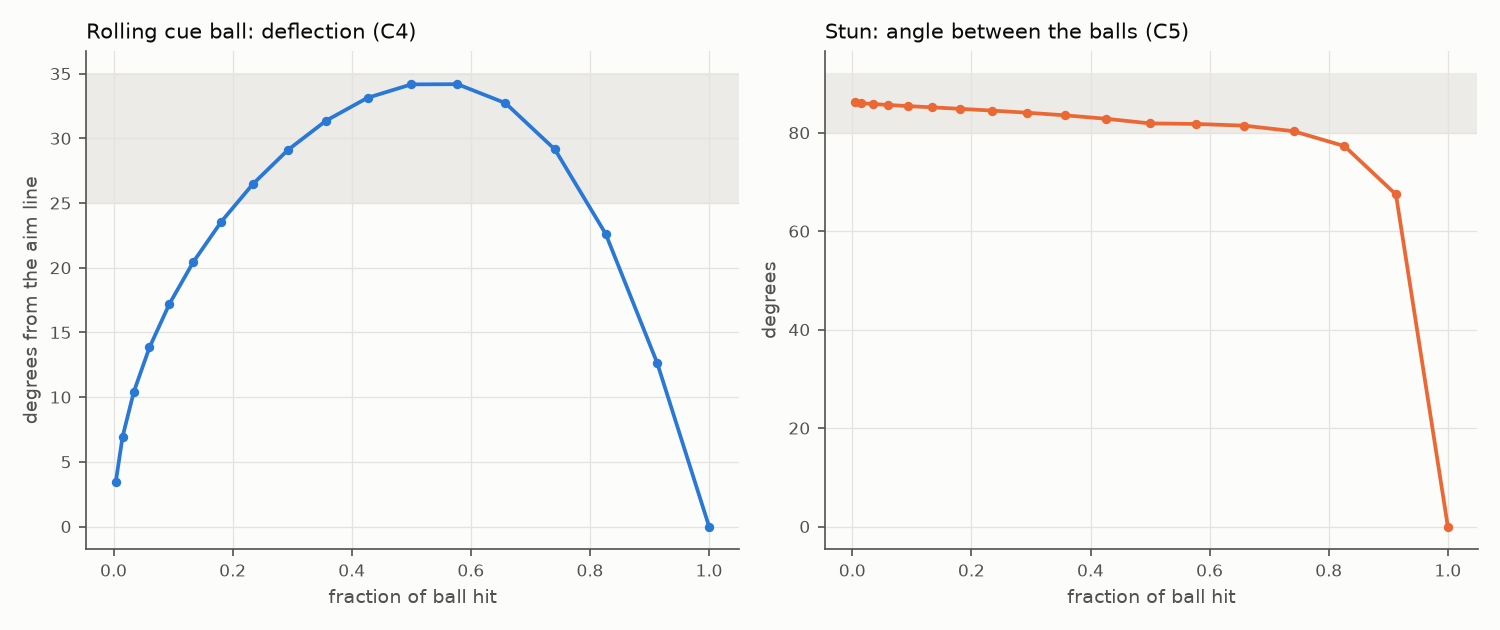
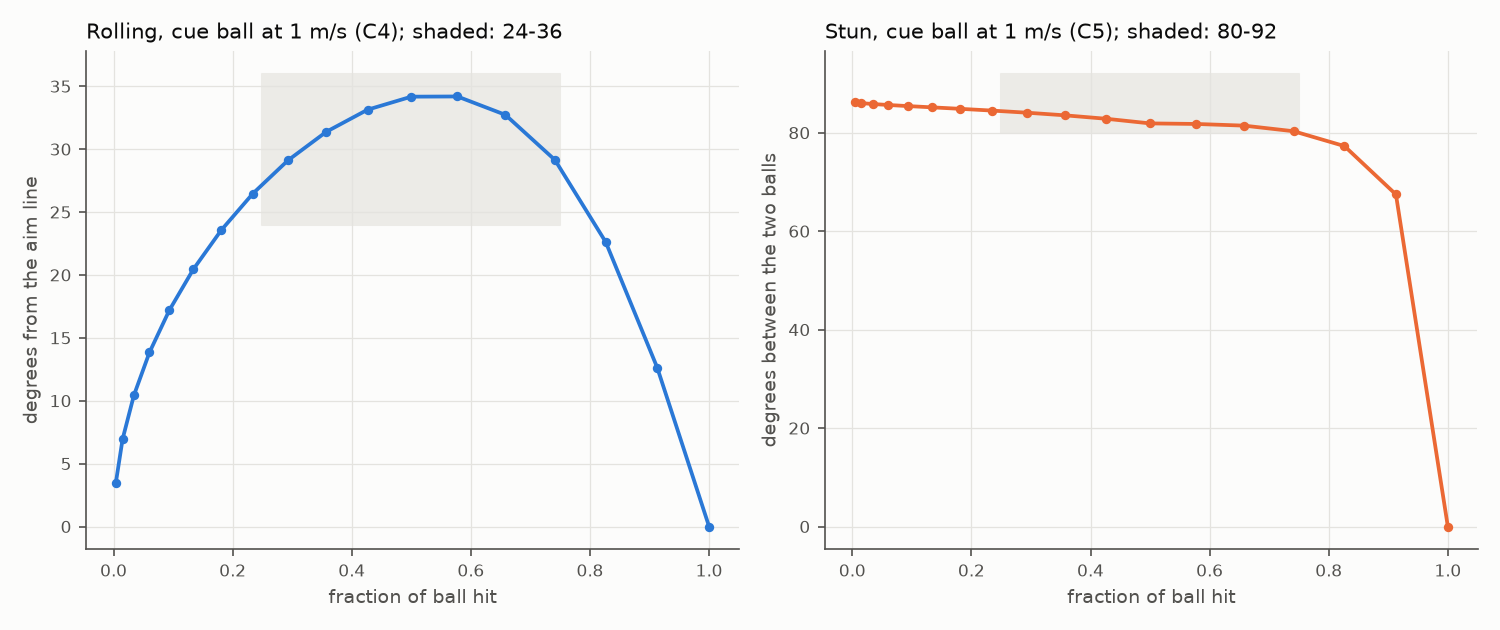
Calibration report regenerated at 909c010 (params ab06a56d); targets.md C6 finding resolved; stale calibration comments

diff --git a/core/tests/calibration/test_c12_c14_energy_determinism_fuzz.cpp b/core/tests/calibration/test_c12_c14_energy_determinism_fuzz.cpp
@@ -7,8 +7,8 @@ using namespace calib;
 
 namespace {
 
-// C12 and C13 hold on any closed table; until the cushions agent's outline lands (the contracts
-// placeholder has none) they run on the bare WPBSA box.
+// C12 and C13 hold on any closed table, so when table_shape.json can't be used they run on the
+// bare WPBSA box.
 const TableShape& fuzz_table() {
     static const TableShape box = box_table();
     return loaded_table().ok ? loaded_table().t : box;
@@ -238,7 +238,7 @@ TEST_CASE("C12-C14 shot generator: every start is a legal table state") {
 
 TEST_CASE("C12 energy never rises across events, and every shot ends within the time cap (2,000 shots)") {
     const TableShape& t = fuzz_table();
-    if (!loaded_table().ok) WARN_MESSAGE(false, "table_shape.json not usable yet, C12 runs on the WPBSA box:\n" << join(loaded_table().problems));
+    if (!loaded_table().ok) WARN_MESSAGE(false, "table_shape.json not usable, C12 runs on the WPBSA box:\n" << join(loaded_table().problems));
     Rng rng(0x5eed0c12);
     Failures f;
     for (int i = 0; i < 2000; ++i) {

diff --git a/core/tests/calibration/calib.hpp b/core/tests/calibration/calib.hpp
@@ -96,8 +96,7 @@ inline const LoadedTable& loaded_table() {
         if (out.t.lines.size() < 6 || out.t.pockets.size() != 6) {
             out.ok = false;
             out.problems.push_back("outline has " + std::to_string(out.t.lines.size()) + " cushion lines and " +
-                                   std::to_string(out.t.pockets.size()) +
-                                   " pockets (the contracts placeholder has none; the cushions agent fills it)");
+                                   std::to_string(out.t.pockets.size()) + " pockets");
         }
         return out;
     }();

diff --git a/docs/calibration/report/report.md b/docs/calibration/report/report.md
@@ -1,160 +1,136 @@
 # Calibration report
 
-Physics parameters `1b74109f2b0ff078`, table outline `cf92efd6db3fff39`, core 0.1.0, release build, from `calibration-data`.
+Physics parameters `ab06a56d6608ce71`, table outline `cf92efd6db3fff39`, core 0.1.0, release build, from `calibration`.
 
 ## In plain words
 
-Pace below is the cue ball's speed as it leaves the tip. A gentle push is about 1 m/s, a medium pace
-about 2 m/s, a firm shot 3-4 m/s, a power shot 5 m/s and up.
+Speeds are the cue ball's speed as it leaves the tip unless a figure says cue speed (how fast the cue is moving). A centre-ball hit sends the cue ball off 1.39 times as fast as the cue; with the tip 0.5 off centre (above, below or to one side) it leaves only 67% as fast as that for the same cue speed. Tip positions are fractions of the ball's radius from its centre: 0.5 is half-way to the edge, just inside the miscue limit of 0.55. Distances between two balls are from centre to centre, and the table is 3.57 m long.
 
-- **Stun.** A full-ball stun leaves the cue ball almost dead: it keeps 3% of its speed and creeps on
-  about 1 cm from a 2 m/s contact. From 50 cm, striking a third of the way down at 2.4 m/s stops
-  the cue ball within 4 cm; from further away you need more screw or more pace, because the cloth
-  rubs the backspin off on the way.
-- **Screw needs pace.** The cloth takes spin off quickly (it grips like the measured snooker cloth
-  its value comes from). Maximum screw from 50 cm comes back about 12 cm at 1.9 m/s, 1.8 m at
-  2.8 m/s and 4.6 m at 3.7 m/s. From 1 m, 2.8 m/s screws back 40 cm and 3.7 m/s 2.8 m; at 1.9 m/s
-  the screw is gone by the time it arrives and the cue ball runs on 14 cm. A centre-ball hit from
-  close range is a stun-run-through (25 cm from 50 cm at 2.8 m/s).
-- **Follow.** A rolling cue ball follows through at about 2/7 of its speed: from 1 m at 1.9-2.8 m/s,
-  hitting above centre follows 1.4-1.8 m; at 3.5 m/s about 4 m.
-- **Cut angles.** Rolling cue balls come off a quarter- to three-quarter-ball cut 29-34 degrees from
-  the aim line (the 30-degree rule). Stunned, the two balls part at 80-84 degrees, a little under
-  90 because snooker balls are not perfectly elastic.
-- **Throw.** On a half-ball cut the friction between the balls drags the object ball off the line
-  by 4.9 degrees at 0.45 m/s, 4.2 at 1.3 m/s and 3.4 at 3.1 m/s: a slow cut pot over 1 m lands
-  about 8 cm thinner than the contact line says, a firm one about 6 cm. Follow or screw roughly
-  halves it.
-- **Side and squirt.** Maximum side (just short of a miscue) pushes the cue ball 2.0 degrees off
-  the aim line, about 3.5 cm over 1 m, away from the side used. Raising the butt with side swerves
-  the ball back towards the side once it grips: with the cue raised 30 degrees and 40% side it
-  turns about 13 degrees.
-- **Cushions.** A rolling ball straight into a cushion comes back with 91% of its speed at normal
-  pace; firm hits lose more, 77% at 3.5 m/s (80% was measured on a snooker table). Running
-  side opens the angle off the cushion (into the cushion at 45 degrees: 47 degrees out with running
-  side, 37 with none) and check side closes it (36).
-- **Cloth speed.** A lag (baulk line to the top cushion and back to the baulk cushion) needs the
-  cue ball to leave at 2.1 m/s, and its last length takes 8.4 seconds. A ball rolling at 1 m/s runs
-  about 5 m before it stops.
-- **Still starting guesses, for you to judge by feel in M2:** how lively the pocket jaws are
-  (firm balls rattling, slow ones dropping), the nap drift on slow balls with and against the nap,
-  what a miscue does, how much a very hard ball dies on a cushion, and the cloth's overall pace
-  (the one snooker measurement found plays slower than this; tournament tables are heated and
-  faster, so this sits between the two).
+- **Pace.** A centre-ball cue ball left to run: at 1 m/s it runs 2.7 m (76% of the table's length); at 2 m/s it would run 10.9 m on an endless table (3.0 table lengths); at 3 m/s it would run 24.5 m on an endless table (6.9 table lengths).
+- **Stun.** A cue ball arriving full-ball at 2 m/s with no spin stops almost dead: it keeps 3.0% of its speed and creeps on 1.0 cm. Striking a third of the way from centre to the bottom of the cue ball (tip -0.33), it stuns from 50 cm when it leaves at 1.83 m/s (it then creeps on 0.4 cm) and from 1 m at 2.66 m/s: from further away you hit harder, because the cloth rubs the backspin off on the way. From 50 cm, hit a tenth harder (2.01 m/s) and it comes back 0.5 cm; a tenth softer (1.65 m/s) and it runs on 5.3 cm. Centre ball from 50 cm at 3 m/s is a stun-run-through: the cue ball arrives still sliding and runs on 23 cm.
+- **Screw needs pace.** The cloth takes backspin off quickly. Striking 0.5 below centre, from 50 cm at 2 m/s it comes back 30 cm, at 3 m/s it comes back 2.4 m and at 4 m/s it would come back 5.6 m on an endless table; from 1 m at 2 m/s it runs on 17 cm, at 3 m/s it comes back 83 cm and at 4 m/s it would come back 3.7 m on an endless table. At 2 m/s from 1 m the backspin is gone before the cue ball arrives, so it runs on.
+- **Follow.** Striking 0.5 above centre, from 1 m at 2 m/s it follows through 1.7 m and at 3 m/s it would follow through 3.9 m on an endless table. A cue ball already rolling when it hits a ball full keeps 27% of its speed, close to the textbook 2/7 (29%).
+- **Cut angles.** A rolling cue ball arriving at 1 m/s and cut between a quarter and three-quarter ball comes off 29-34 degrees from the aim line (the 30-degree rule). Stunned, the two balls part at 80-84 degrees, a little under 90 because the balls are not perfectly elastic and the friction between them drags the object ball along.
+- **Throw.** On a half-ball cut, friction between the balls drags the object ball a little the way the cue ball is going, so it goes fuller than the line through the two centres: 4.9 degrees with a stunned cue ball arriving at 0.45 m/s, 4.2 at 1.34 m/s and 3.4 at 3.13 m/s. Over 1 m that is 8.5 cm on the slow cut and 5.9 cm on the firm one, so aim that much thinner. A rolling cue ball throws less: 1.7 degrees at 1.34 m/s.
+- **Side and squirt.** Side pushes the cue ball off the aim line, away from the side used: with the most side before a miscue (tip 0.55 off centre) it leaves 2.0 degrees off, 3.5 cm over 1 m.
+- **Swerve.** With the cue raised and side, the cue ball first squirts away from the side, then curves back towards it from the moment it is struck while it slides, bending most just before it grips the cloth; once it rolls it runs straight. Raised 30 degrees with the tip 0.4 right of centre, at a cue speed of 1.5 m/s, it squirts 1.4 degrees left, turns 12.9 degrees right over the first 26 cm and then holds its line: 0.1 degrees more over the next 2.9 m, the nap's drift on a slowing ball.
+- **Cushions.** A rolling ball arriving straight into a cushion at 1 m/s comes off with 91% of its speed; firm hits lose more, 70% at 4 m/s. (The one set of measurements on a snooker table, by Mathavan and colleagues, averaged 82% below 1.5 m/s, where their own cushion model, which the game uses, gives 91%.) Rolling into a side cushion at 45 degrees with no side, the ball leaves at 37.3 degrees just after the impact, then bends out to 50.1 as it grips the cloth again: that is the line you see. Running side widens both (46.6 and 58.8 degrees, with as much side as a tip 0.4 off centre gives) and check side narrows them (35.7 and 49.5).
+- **Cloth speed.** A lag (from the baulk line up to the top cushion and back down to the baulk cushion) needs the cue ball to leave at 2.14 m/s, a cue speed of 1.54 m/s; coming back down from the top cushion to the baulk cushion takes 8.4 seconds.
+- **Still starting guesses, for you to judge by feel in M2:** how lively the pocket jaws are (firm balls rattling, slow ones dropping), the nap drift on slow balls with and against the nap, what a miscue does, how much a very hard ball dies on a cushion, and the cloth's overall pace (the one snooker measurement found a slower cloth; tournament tables are heated and faster, so this sits between the two).
 
 ## Results against the targets
 
-Every target C1-C11 passes in the calibration suite (`ofs_calibration_tests`) with these values.
+What this report measured itself, from `ofs_sim_cli calibrate` and its own shots. The calibration suite (`ofs_calibration_tests`, run by the gate) checks the same targets with the exact tolerances in `docs/calibration/targets.md`.
 
-| # | What | Measured | Target |
-| --- | --- | --- | --- |
-| C1 | Centre-ball, no spin: slides then rolls | at 2 m/s rolls after 0.47 m at 1.43 m/s, matching the formula to 1e-6 | 12 v^2 / (49 mu_s g), 5/7 v (TP 4.1) |
-| C2 | Full-ball stun | cue ball keeps 3.0% of its speed ((1-e)/2) | stops dead apart from e's small forward motion |
-| C3 | Full-ball, rolling | follows at (5/7)(1-e)/2 + 2/7 = 0.307 of its speed, less a little topspin friction | about 2/7 of its speed |
-| C4 | Rolling cut, 1/4 to 3/4 ball | 29.1-34.2 deg (also from the named positions, struck from 1 m) | 30-degree rule, 25.6-32.0 deg +- throw band, inside 24-36 |
-| C5 | Stun cut | 80.3-84.1 deg separation; leaves the tangent line by e's 3.0 deg at half-ball | 90-degree rule with e = 0.94 |
-| C6 | Half-ball stun throw at 1 / 3 / 7 mph | 4.86 / 4.16 / 3.39 deg | Alciatore 4.5 / 4.1 / 3.45, Jewett 6.0 / 4.1 / 3.45 (+- 0.75); slow above fast |
-| C7 | Cushion rebound, rolling, 0.5-4 m/s, 0-80 deg | matches the fine-step Mathavan solution (108 cases) | 1 deg, 2% |
-| C8 | Running and check side | angles ordered check < plain < running at every speed and incidence | Mathavan Fig. 8 |
-| C9 | Squirt at maximum side | 2.01 deg | 1-3 deg |
-| C10 | Swerve with an elevated cue | curves towards the side only while sliding, runs straight once rolling | TP A.4 parabola to 1e-9 m |
-| C11 | Lag | cue ball 2.14 m/s; last length 8.4 s, effective slope 0.0101 | 1.55-2.32 m/s; slope 0.0055-0.0105 |
+| # | What | Measured | Target | Verdict |
+| --- | --- | --- | --- | --- |
+| C1 | Centre ball, no spin: slides, then rolls | at 2 m/s rolls after 0.4710 m at 1.4286 m/s | 12 v^2 / (49 mu_s g) = 0.4710 m at 5/7 v = 1.4286 m/s (TP 4.1), 1e-6 relative | met |
+| C2 | Full-ball stun | cue ball keeps 3.00% of its speed | (1-e)/2 = 3.00%, within 0.2% of the speed | met |
+| C3 | Full-ball, rolling | follows at 0.267 of its speed | (5/7)(1-e)/2 + 2/7 = 0.307, less up to 0.061 for topspin friction (TP A.14) | met |
+| C4 | Rolling cut, 1/4 to 3/4 ball, cue ball at 1 m/s | 29.1-34.2 deg off the aim line | 30-degree rule, inside 24-36 | met |
+| C5 | Stun cut, 1/4 to 3/4 ball, cue ball at 1 m/s | 80.3-84.1 deg between the balls | 90-degree rule less restitution and throw: 80-92 | met |
+| C6 | Half-ball stun throw at 0.447 / 1.341 / 3.129 m/s | 4.86 / 4.16 / 3.39 deg | Alciatore 4.5 / 4.1 / 3.45, Jewett 6 / 4.1 / 3.45 (+- 0.75); slow above fast by 0.25 | met |
+| C7 | Cushion rebound, rolling, no side, 0.5-4 m/s, 0-80 deg | worst 0.05 deg and 0.07% of the speed off the fine-step Mathavan solution over 36 cases | 1 deg, 2% (the suite also checks side, stun and screw) | met |
+| C8 | Running and check side, into the cushion at 45 deg at 1.5 m/s | check 35.7 < none 37.3 < running 46.6 deg | angles ordered check < plain < running (Mathavan Fig. 8) | met |
+| C9 | Squirt at maximum side (tip 0.55) | 2.01 deg | 1-3 deg | met |
+| C10 | Swerve, cue raised 15-45 deg with side | while sliding pulled at 2.080 m/s^2 in a direction fixed to 0.00 deg, turning towards the side; once rolling at most 0.11 deg more | TP A.4 parabola: mu_s g = 2.080 m/s^2 in one direction (0.5%, 0.2 deg); straight once rolling apart from the nap | met |
+| C11 | Lag: baulk line to the top cushion and back to baulk | cue ball 2.14 m/s; back down from the top cushion in 8.4 s, effective slope 0.0101 | 1.55-2.32 m/s (TP B.6 for slopes 0.0055-0.0105, +-5%); slope 0.0055-0.0105 | met |
+| C12-C14 | Energy, determinism, robustness | not measured by this report | ofs_calibration_tests and `ofs_sim_cli fuzz` in the gate | - |
 
-What changed in this tuning, each with its source in `core/data/table_params.json`:
+## What changed
 
-- Ball-ball friction (`ball_friction_a/b/c` 0.009951 / 0.108 / 1.088 to 0.058 / 0.092 / 2.73): refitted
-  by least squares to the published half-ball stun throw (Alciatore, Billiards Digest Sept 2006;
-  Jewett 1995). The old fit threw 1.7 degrees on a firm cut against 3.45 measured.
-- Sliding friction (`slide_friction` 0.2 to 0.212) and ball mass (`ball_mass_kg` 0.141 to 0.1406):
-  Mathavan, Jackson & Parkin's measurements on a snooker table and ball (Am. J. Phys. 2009; Proc.
-  IMechE 2010), the same source as the cushion model.
-- Rolling resistance (`roll_friction` 0.008 to 0.010): the fast end of the snooker evidence that the
-  lag target allows (Mathavan measured 0.0127 on an unheated lab table).
+What changed in M1's tuning from the starting values, each with its source in `core/data/table_params.json`:
 
-Each chart says what it shows and whether it meets its target from spec 7.11. "For review" means the target is a model or the owner's feel rather than a number this report can check; the calibration suite holds the exact tolerances.
+- Ball-ball friction (`ball_friction_a` 0.009951 to 0.058, `ball_friction_b` 0.108 to 0.092, `ball_friction_c` 1.088 to 2.73): refitted by least squares to the published half-ball stun throw (Alciatore, Billiards Digest Sept 2006; Jewett 1995). The old fit threw 1.7 degrees on a firm cut against 3.45 measured.
+- Sliding friction and ball mass (`slide_friction` 0.2 to 0.212, `ball_mass_kg` 0.141 to 0.1406): Mathavan, Jackson & Parkin's measurements on a snooker table and ball (Am. J. Phys. 2009; Proc. IMechE 2010), the same source as the cushion model.
+- Rolling resistance (`roll_friction` 0.008 to 0.01): the fast end of the snooker evidence that the lag target allows (Mathavan measured 0.0127 on an unheated lab table).
+- Cue end mass (`cue_end_mass_kg` 0.0075 to 0.0047): pooltool's snooker cue (ball mass / 30): squirt at maximum side drops from 3.05 to 2.0 degrees, inside C9's 1-3.
+- Cushion restitution on hard hits (`cushion_restitution_slope_per_m_s` 0.0 to 0.16, `cushion_restitution_min` new, 0.7): the slope is a least-squares fit to Mathavan's measured rebounds above 2.5 m/s (Proc. IMechE 2010, Fig. 7b); the floor is Alciatore's typical rail restitution (TP B.6), reached at 4.25 m/s into the cushion.
+
+## Charts
+
+Each chart says what it shows and whether it meets its target from spec 7.11. "For review" means the target is the owner's feel rather than a number this report can check.
 
 | Target | Chart | Verdict |
 | --- | --- | --- |
 | C4, C5 | [Cue ball deflection against cut, rolling and stunned](#c4-c5-cue-ball-deflection-against-cut-rolling-and-stunned) | met |
 | C6 | [Cut-induced throw against cut](#c6-cut-induced-throw-against-cut) | met |
-| C7 | [Cushion rebound angle and speed against incidence](#c7-cushion-rebound-angle-and-speed-against-incidence) | for review |
+| C7 | [Cushion rebound angle and speed against incidence](#c7-cushion-rebound-angle-and-speed-against-incidence) | met |
 | C8 | [Running and check side off a cushion](#c8-running-and-check-side-off-a-cushion) | met |
 | C9 | [Squirt against side](#c9-squirt-against-side) | met |
-| C10 | [Swerve paths with an elevated cue and side](#c10-swerve-paths-with-an-elevated-cue-and-side) | for review |
-| C11 | [The lag: cue speed to reach the top cushion and back to baulk](#c11-the-lag-cue-speed-to-reach-the-top-cushion-and-back-to-baulk) | for review |
-| 7.12 | [Screw-back and follow distance against tip offset](#712-screw-back-and-follow-distance-against-tip-offset) | for review |
+| C10 | [Swerve paths with an elevated cue and side](#c10-swerve-paths-with-an-elevated-cue-and-side) | met |
+| C11 | [The lag: cue speed to reach the top cushion and back to baulk](#c11-the-lag-cue-speed-to-reach-the-top-cushion-and-back-to-baulk) | met |
+| 7.12 | [Screw-back and follow distance against tip height](#712-screw-back-and-follow-distance-against-tip-height) | for review |
 | 7.13 | [Simulation time of break-offs](#713-simulation-time-of-break-offs) | met |
 
-## C4, C5: Cue ball deflection against cut, rolling and stunned
+### C4, C5: Cue ball deflection against cut, rolling and stunned
 
 ![Cue ball deflection against cut, rolling and stunned](deflection.png)
 
-How far the cue ball turns from its aim line after hitting a red, against how full the hit is (1 is full-ball, 0 the thinnest), for a rolling cue ball and a stunned one. A rolling cue ball cut between a quarter and three-quarter ball deflects 29.1 to 34.2 degrees from its aim line, inside the 30 degree rule's 25 to 35 (C4). Stunned, the two balls part at 80.3 to 84.1 degrees, inside the 90 degree rule's 80 to 92 (C5).
+How far the cue ball turns from its aim line after hitting a red, against how full the hit is (1 is full-ball, 0 the thinnest), for a rolling cue ball and a stunned one, the cue ball at 1 m/s. A rolling cue ball cut between a quarter and three-quarter ball deflects 29.1 to 34.2 degrees from its aim line, inside the 30 degree rule's 24 to 36 (C4). Stunned, the two balls part at 80.3 to 84.1 degrees, inside the 90 degree rule's 80 to 92 (C5).
 
 Setup: At 1 m/s. separation_deg is between the two balls' directions just after impact; cue_deflection_deg is the cue ball's direction from the aim line once it rolls again.
 
-## C6: Cut-induced throw against cut
+### C6: Cut-induced throw against cut
 
 ![Cut-induced throw against cut](throw.png)
 
-How far friction between the balls pushes the object ball off the line of centres, against how full the hit is, for a slow, a medium and a fast stun shot. At a half-ball hit the object ball is thrown 4.9 degrees at 0.5 m/s, 4.0 degrees at 1.5 m/s, 3.3 degrees at 4 m/s. Slower shots should throw more (they do) and stay within the few degrees published measurements show, 1 to 6 here (they do) (C6).
+How far friction between the balls pushes the object ball off the line of centres, against how full the hit is, for a stunned cue ball arriving at 0.5, 1.5 and 4 m/s. At a half-ball hit the object ball is thrown 4.9 degrees with the cue ball at 0.5 m/s, 4.0 degrees with the cue ball at 1.5 m/s, 3.3 degrees with the cue ball at 4 m/s. Slower shots should throw more (they do) and stay within the few degrees published measurements show, 1 to 6 here (they do) (C6).
 
 Setup: Stun shots (no spin at contact): throw is the angle between the object ball's direction and the line of centres at impact.
 
-## C7: Cushion rebound angle and speed against incidence
+### C7: Cushion rebound angle and speed against incidence
 
 ![Cushion rebound angle and speed against incidence](cushion_rebound.png)
 
-The angle a plain rolling ball comes off the side cushion at, against the angle it goes in at, for four speeds, and how much of its speed it keeps. Rebound angles run 0.0 to 79.7 degrees and the ball keeps 70.2 to 94.3 % of its speed. The target is Mathavan, Jackson and Parkin's model; the calibration suite checks the numbers (C7).
+The angle a plain rolling cue ball comes off the side cushion at, against the angle it goes in at, for four speeds, and how much of its speed it keeps. Rebound angles run 0.0 to 79.7 degrees and the ball keeps 70.2 to 94.3% of its speed. Up to 2 m/s the speeds give the same angles to within 0.05 degrees, so their lines lie on top of each other; only the firm hit's restitution falls. Against the target (C7): worst 0.05 deg and 0.07% of the speed off the fine-step Mathavan solution over 36 cases; the target is 1 deg, 2% (the suite also checks side, stun and screw).
 
 Setup: A rolling ball without side into the left side cushion. Angles from the cushion normal; rebound_deg just after the impact, rebound_rolling_deg once the ball rolls again.
 
-## C8: Running and check side off a cushion
+### C8: Running and check side off a cushion
 
 ![Running and check side off a cushion](cushion_side.png)
 
-The rebound angle of a ball played into the cushion at 45 degrees with check side (left), none and running side (right). Off the cushion at 45 degrees, running side sends the ball off at 46.6 degrees, no side at 37.3 degrees and check side at 35.7 degrees. Running side should widen the angle and check side narrow it (it does) (C8).
+The rebound angle of a ball rolling into the cushion at 45 degrees at 1.5 m/s with check side (left), none and running side (right). Side 1 is as much as a tip 0.4 R off centre gives. Into the cushion at 45 degrees, running side sends the ball off at 46.6 degrees just after the impact, no side at 37.3 degrees and check side at 35.7 degrees. Once the ball grips the cloth again its path opens out to 58.8, 50.1 and 49.5 degrees. Running side should widen the angle and check side narrow it (it does) (C8).
 
 Setup: side is w_z R / v at the start, positive for running side, negative for check side.
 
-## C9: Squirt against side
+### C9: Squirt against side
 
 ![Squirt against side](squirt.png)
 
-How far side pushes the cue ball off the aim line, against how far from centre the tip strikes; past the miscue limit the strike miscues. With the most side before a miscue (0.55 R) the cue ball leaves 2.0 degrees off the aim line, inside the 1 to 3 degree range (C9).
+How far side pushes the cue ball off the aim line, against how far from centre the tip strikes (a level cue at a cue speed of 3 m/s); past the miscue limit the strike miscues. With the most side before a miscue (0.55 R) the cue ball leaves 2.0 degrees off the aim line, inside the 1 to 3 degree range (C9).
 
 Setup: A level cue at 3 m/s. squirt_deg is signed from the aim line.
 
-## C10: Swerve paths with an elevated cue and side
+### C10: Swerve paths with an elevated cue and side
 
 ![Swerve paths with an elevated cue and side](swerve.png)
 
-The cue ball's path seen from above with the cue raised and side applied, aiming up the table. With a raised cue, 15 deg, tip +0.40 turns 6.1 degrees right; 30 deg, tip +0.40 turns 13.0 degrees right; 30 deg, tip -0.40 turns 13.0 degrees left; 45 deg, tip +0.40 turns 21.7 degrees right. Each curves towards its side; whether the curve waits until the ball grips is for review on the chart. (C10)
+The cue ball's path seen from above with the cue raised and side applied, aiming up the table at a cue speed of 1.5 m/s; the right-hand panel is the first 40 cm, with a dot where each starts to roll. With a raised cue, 15 deg, tip +0.40 turns 6.0 degrees right over its first 29 cm and 0.1 more in the 2.8 m after it grips; 30 deg, tip +0.40 turns 12.9 degrees right over its first 26 cm and 0.1 more in the 2.9 m after it grips; 30 deg, tip -0.40 turns 12.9 degrees left over its first 26 cm and 0.1 more in the 2.9 m after it grips; 45 deg, tip +0.40 turns 21.6 degrees right over its first 22 cm and 0.1 more in the 2.4 m after it grips. Each curves towards its side while it slides, on a parabola (a fixed pull of 2.08 m/s^2, the cloth's sliding friction), bending most just before it grips, and runs straight once it rolls apart from the nap's slight drift. The 0 deg, tip +0.40 shot's cue has to rise to 2.8 degrees to clear the cushion rail behind the cue ball, so it too curves, 1.2 degrees. (C10)
 
 Setup: Aiming along +x at 1.5 m/s; positive tip_x is right of centre as the player sees it, which is towards -y. Each path stops at the cue ball's first contact.
 
-## C11: The lag: cue speed to reach the top cushion and back to baulk
+### C11: The lag: cue speed to reach the top cushion and back to baulk
 
 ![The lag: cue speed to reach the top cushion and back to baulk](lag.png)
 
-Where a centre-ball cue ball stops for each cue speed, played from the baulk line to the top cushion and back. A lag, up to the top cushion and back to baulk, needs a cue speed of 1.54 m/s (the cue ball leaves at 2.14 m/s). The target is a realistic speed for a fast tournament cloth, with its source recorded beside roll_friction (C11).
+Where a centre-ball cue ball stops for each cue speed, played from the baulk line to the top cushion and back. A lag, up to the top cushion and back to baulk, needs a cue speed of 1.54 m/s, sending the cue ball off at 2.14 m/s. Against the target (C11): cue ball 2.14 m/s; back down from the top cushion in 8.4 s, effective slope 0.0101; the target is 1.55-2.32 m/s (TP B.6 for slopes 0.0055-0.0105, +-5%); slope 0.0055-0.0105.
 
 Setup: Centre ball from the middle of the baulk line straight up the table. The lag is the slowest cue speed whose cue ball touches the top cushion and then the baulk cushion.
 
-## 7.12: Screw-back and follow distance against tip offset
+### 7.12: Screw-back and follow distance against tip height
 
-![Screw-back and follow distance against tip offset](screw_follow.png)
+![Screw-back and follow distance against tip height](screw_follow.png)
 
-How far the cue ball screws back or follows through after a full-ball hit on a red 1 m away, against how high or low the tip strikes, at three speeds. After a full-ball hit the cue ball travels at 1 m/s from +0.02 m (tip -0.4) to +0.30 m (tip +0.5); at 2 m/s from +0.14 m (tip -0.5) to +0.16 m (tip +0.5); at 3 m/s from -1.19 m (tip -0.5) to -0.85 m (tip +0.5), negative being screw back. The owner judges screw and follow by feel (spec 7.12).
+How far the cue ball screws back or follows through after a full-ball hit on a red 1 m away, against how high or low the tip strikes, at three cue speeds. After a full-ball hit the cue ball travels at a cue speed of 1 m/s from +0.02 m (tip -0.4) to +0.30 m (tip +0.5); at a cue speed of 2 m/s from +0.14 m (tip -0.5) to +1.44 m (tip +0.5); at a cue speed of 3 m/s from -0.41 m (tip -0.5) to +3.33 m (tip +0.5), negative being screw back. At a cue speed of 1 m/s with the tip -0.5 the cue ball never reaches the red, stopping 0.74 m from where it started: the screw slows it too much, so the chart shows that point as missing. The owner judges screw and follow by feel (spec 7.12).
 
-Setup: Full-ball hit on a red 1 m away (straight_1m). Distance from the impact to where the cue ball stops, along the aim: negative is screw back.
+Setup: Full-ball hit on a red 1 m away (centre to centre), simulated by this report on an endless table (the real outline scaled up 20 times), so no cushion is in reach. Distance from the contact to where the cue ball stops, along the aim: negative is screw back. The speeds are cue speeds; the cue ball leaves slower the further the tip is from centre.
 
-The 2 and 3 m/s (cue speed) rows include cushion rebounds on the real table, so a follow shot can end behind the impact point; the screw and follow distances in "In plain words" are the cue ball's free run after the hit, worked out from the same simulation.
-
-## 7.13: Simulation time of break-offs
+### 7.13: Simulation time of break-offs
 
 ![Simulation time of break-offs](break_sim_time.png)
 
-How long the simulation of each break-off took on this PC. Over 200 break-offs the simulation took a median of 317 us and at most 824 us, within the 2000 us budget (spec 7.13).
+How long the simulation of each break-off took on this PC. Over 200 break-offs the simulation took a median of 391 us and at most 815 us, within the 2000 us budget (spec 7.13).
 
 Setup: Wall-clock time of simulate() per break-off, measured in a release build; only release timings count against the budget.

diff --git a/docs/calibration/targets.md b/docs/calibration/targets.md
@@ -35,6 +35,10 @@ A sanity test checks the shot generator's own starts (no overlaps, nothing insid
 that `opening_rack()` leaves every ball clear of every other, so a C12-C14 failure is the
 simulator's, not a bad start.
 
+The calibration report (`docs/calibration/report/`, written by `tools/calibration_report.py`)
+measures C1-C11 again through `ofs_sim_cli` with the same targets and bands, for the record and
+for the owner.
+
 ## Fixtures
 
 - `core/tests/fixtures/reference/cushion_mathavan.json`: generated, do not edit. `uv run
@@ -51,10 +55,10 @@ simulator's, not a bad start.
 
 ## Findings while building the suite
 
-- **C6 fast (open):** the friction fit in `table_params.json` (TP A.14's a, b, c from Marlow's
-  data) predicts 1.70 deg of throw at a half-ball hit at 7 mph, against 3.45 deg measured by both
-  Alciatore and Jewett. Slow (4.86 deg) and medium are within the measurements. The tuner can
-  refit the friction to the measured throw (spec 7.4 allows a re-fit).
+- **C6 fast (resolved):** the first friction fit (TP A.14's a, b, c from Marlow's data) predicted
+  1.70 deg of throw at a half-ball hit at 7 mph, against 3.45 deg measured by both Alciatore and
+  Jewett. The tuner refitted the friction to the measured throw (spec 7.4): 4.86 / 4.16 / 3.39 deg
+  at 1 / 3 / 7 mph.
 - **C7 data:** Mathavan et al. report that a rolling snooker ball hitting a cushion straight on
   rebounds at 0.818 of its speed on average, and that e = 0.98, mu_w = 0.14 reproduce it. Their
   own equations, solved here and by pooltool, give 0.911 for a rolling ball (0.837 for a stunned
